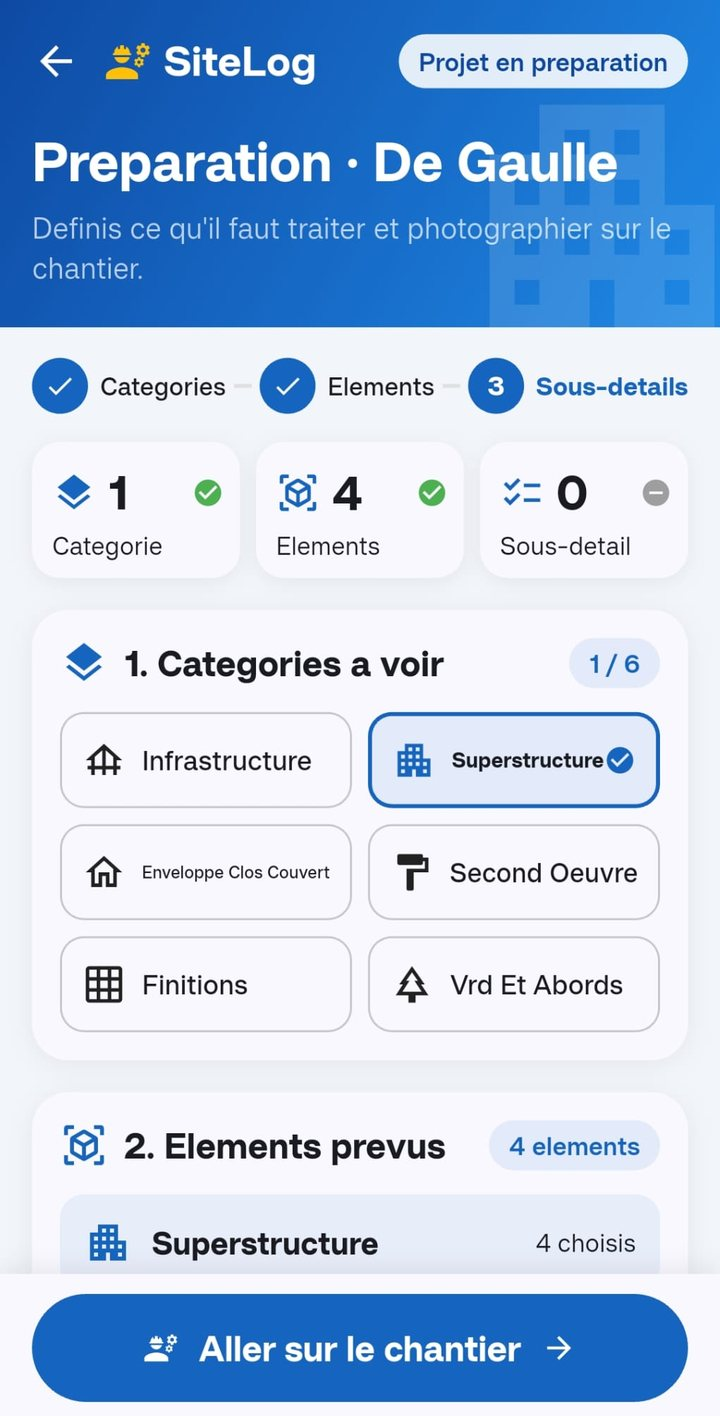
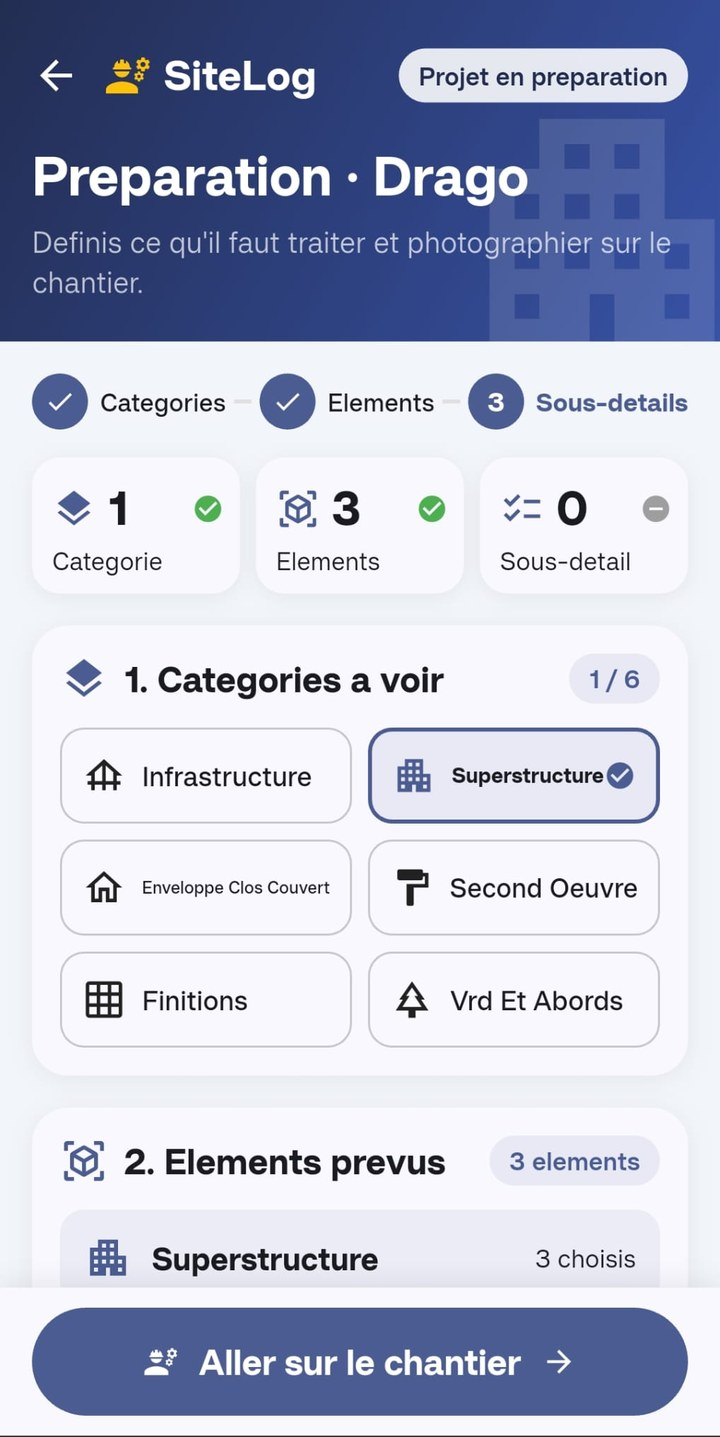
Slogan Retrouver et nouvelle capture preparation

diff --git a/index.html b/index.html
@@ -9,7 +9,7 @@
 <meta property="og:url" content="https://sitelog.overie.fr/">
 <meta property="og:title" content="SiteLog – la mémoire photo de vos chantiers">
 <meta property="og:description" content="Capturer · Classer · Retrouver. Vos photos de chantier deviennent un patrimoine technique.">
-<meta property="og:image" content="https://sitelog.overie.fr/assets/hero-appareils.jpg">
+<meta property="og:image" content="https://sitelog.overie.fr/assets/hero-appareils.jpg?v=7">
 <link rel="icon" type="image/png" href="/assets/favicon.png">
 <link rel="apple-touch-icon" href="/assets/apple-touch-icon.png">
 <link rel="preconnect" href="https://fonts.googleapis.com">
@@ -49,7 +49,7 @@
 <p class="origin" style="margin:0;display:flex;align-items:center;gap:10px;font-size:15px"><svg aria-hidden="true" width="20" height="20" viewBox="0 0 24 24" fill="none" stroke="#6EA8F5" stroke-width="2" stroke-linecap="round" stroke-linejoin="round"><path d="M3 21h18"/><path d="M5 21V8l7-5 7 5v13"/><path d="M9 21v-6h6v6"/></svg>Né sur nos propres chantiers, utilisé chaque jour par notre équipe.</p>
 </div>
 <div class="devices">
-<img src="/assets/hero-appareils.jpg" width="1400" height="840" alt="SiteLog PC (réception, organisation et recherche des photos) et SiteLog Mobile (terrain, capture, classement) côte à côte">
+<img src="/assets/hero-appareils.jpg?v=7" width="1400" height="840" alt="SiteLog PC (réception, organisation et recherche des photos) et SiteLog Mobile (terrain, capture, classement) côte à côte">
 </div>
 </div>
 </section>
@@ -103,7 +103,7 @@
 </div>
 <div class="panel-img">
 <img class="phone" src="/assets/mobile-nouveau-chantier.jpg" width="720" height="1419" loading="lazy" alt="Écran mobile de création d'un chantier : code, nom et chantier existant">
-<img class="phone" src="/assets/mobile-preparation.jpg" width="720" height="1416" loading="lazy" alt="Écran mobile de préparation du chantier : catégories à voir et éléments prévus">
+<img class="phone" src="/assets/mobile-preparation.jpg?v=7" width="720" height="1437" loading="lazy" alt="Écran mobile de préparation du chantier : catégories à voir et éléments prévus">
 </div>
 </div>
 
